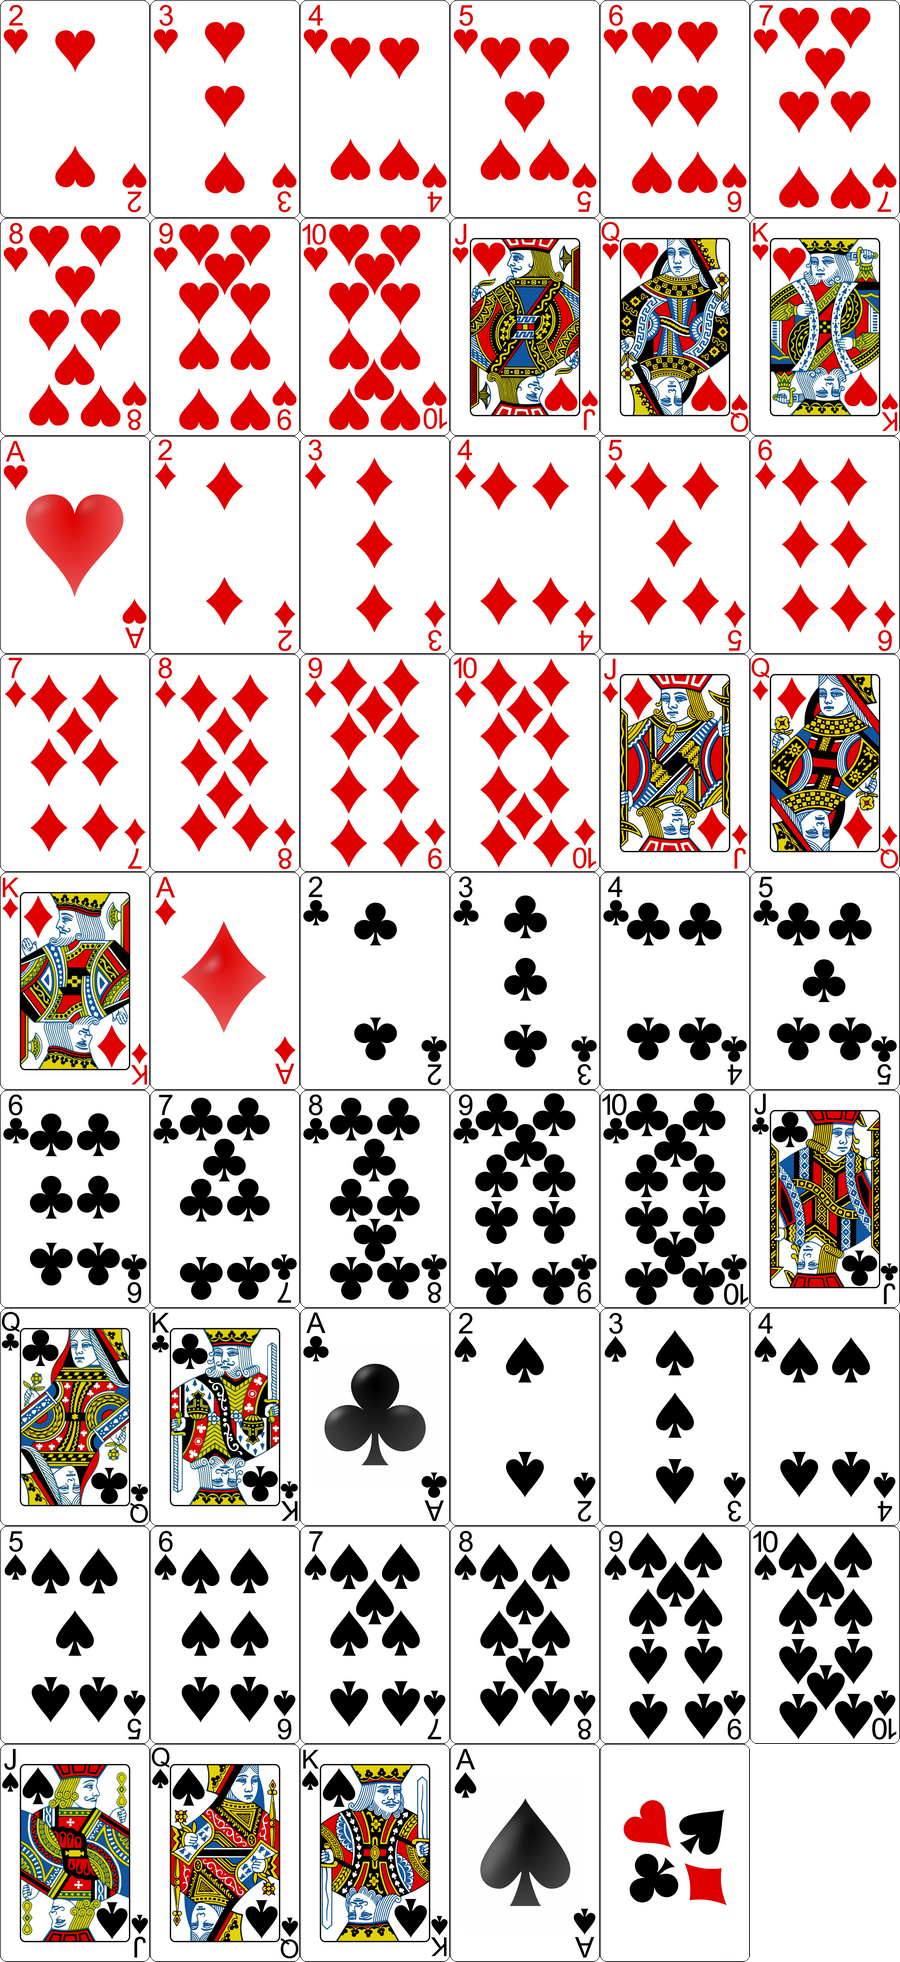
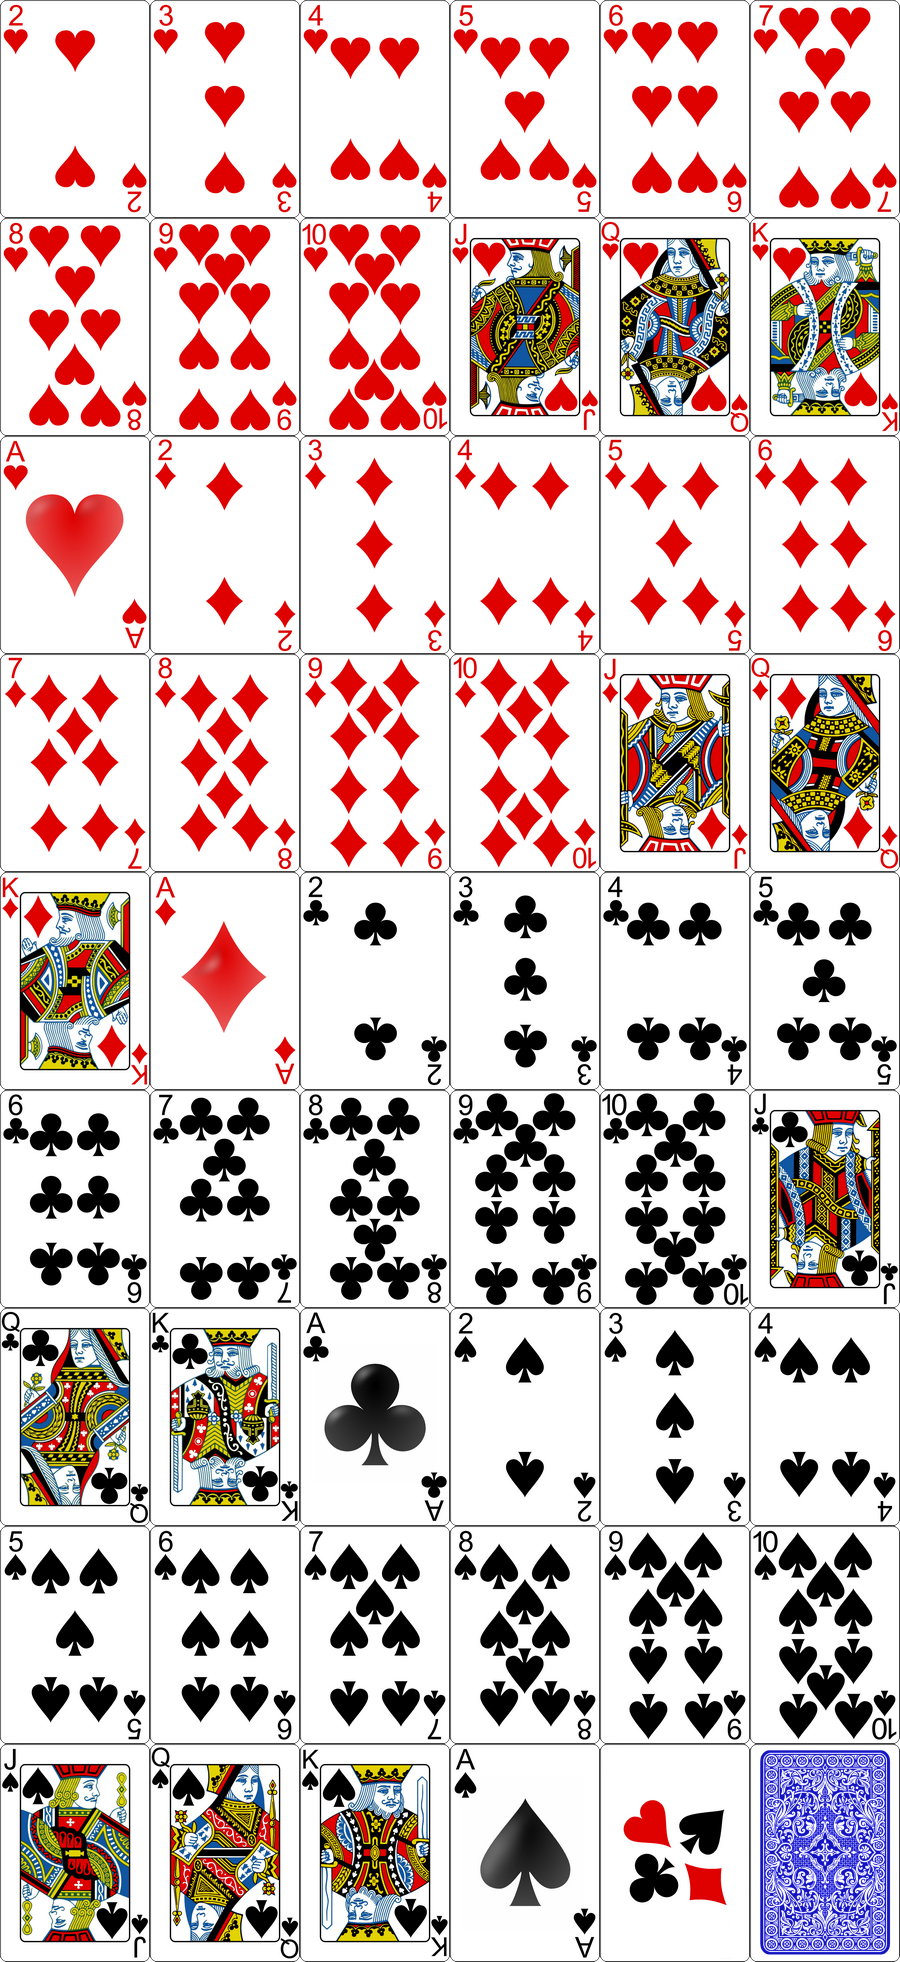
cardback

Changed region(s): [[0.84, 0.8705, 1.0, 1.0]]

diff --git a/public/js/Skin/skins.js b/public/js/Skin/skins.js
@@ -28,9 +28,9 @@ skins.push({
 	width: 150,
 	height: 218,
 	name: 'classic',
-	numOfFrames: 53,
-	cardbackPossibleFrames: [52],
-	cardbackFrame: 52,
+	numOfFrames: 54,
+	cardbackPossibleFrames: [52, 53],
+	cardbackFrame: 53,
 	trumpOffset: 32,
 	trailWidth: 55,
 	trailHeight: 55,
